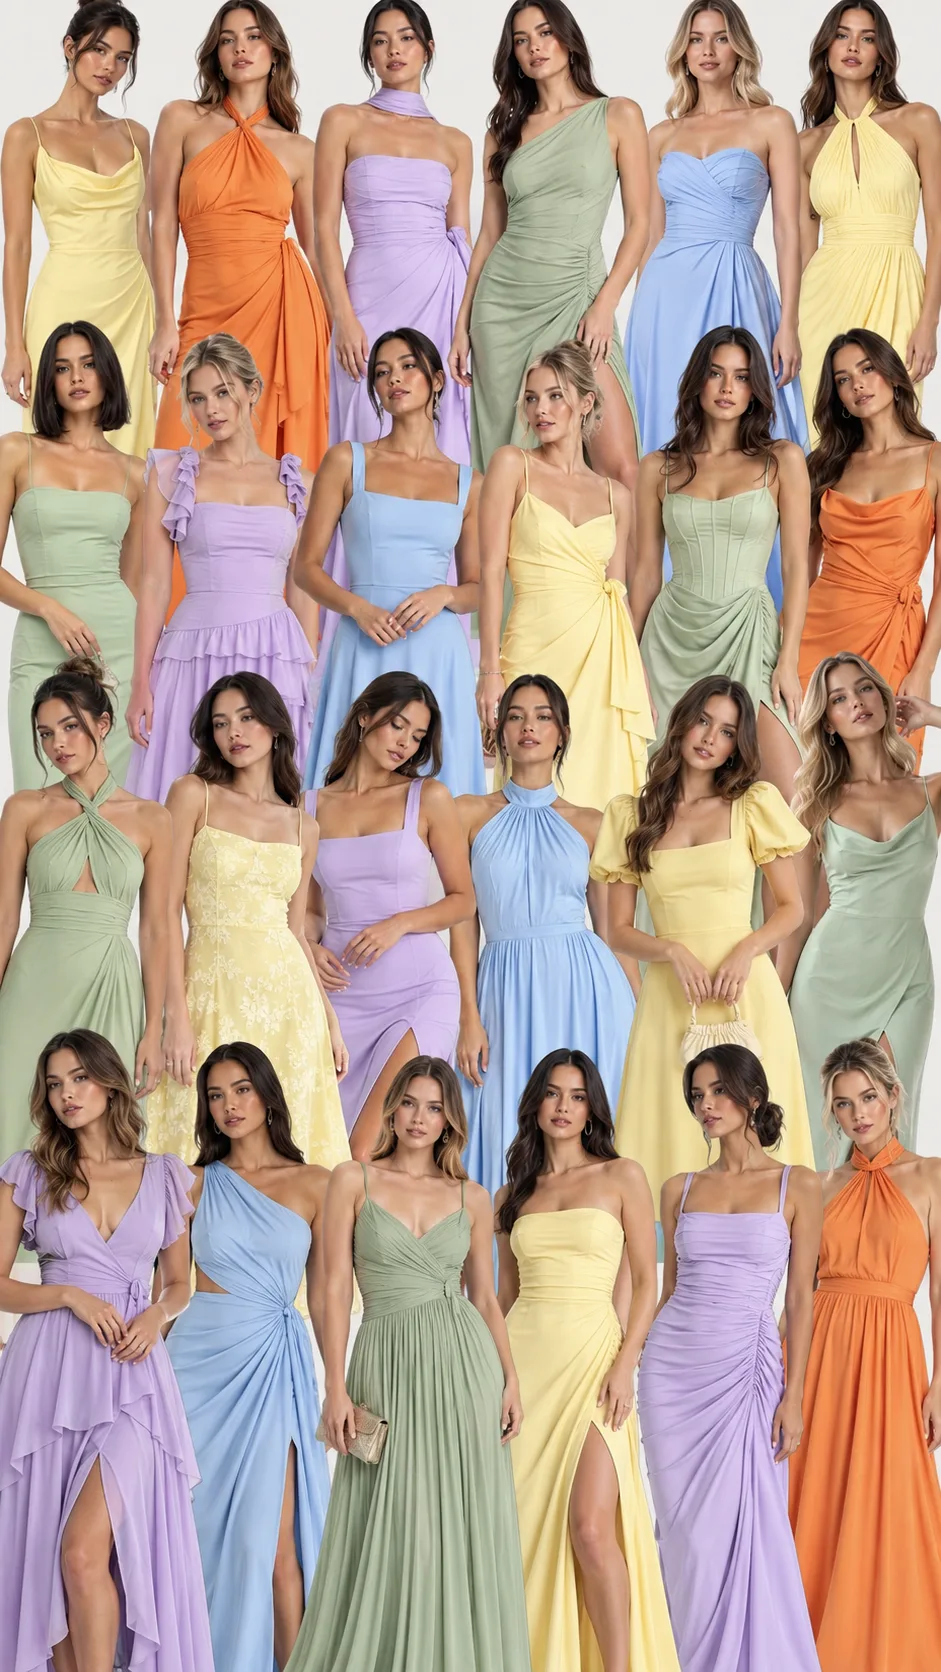
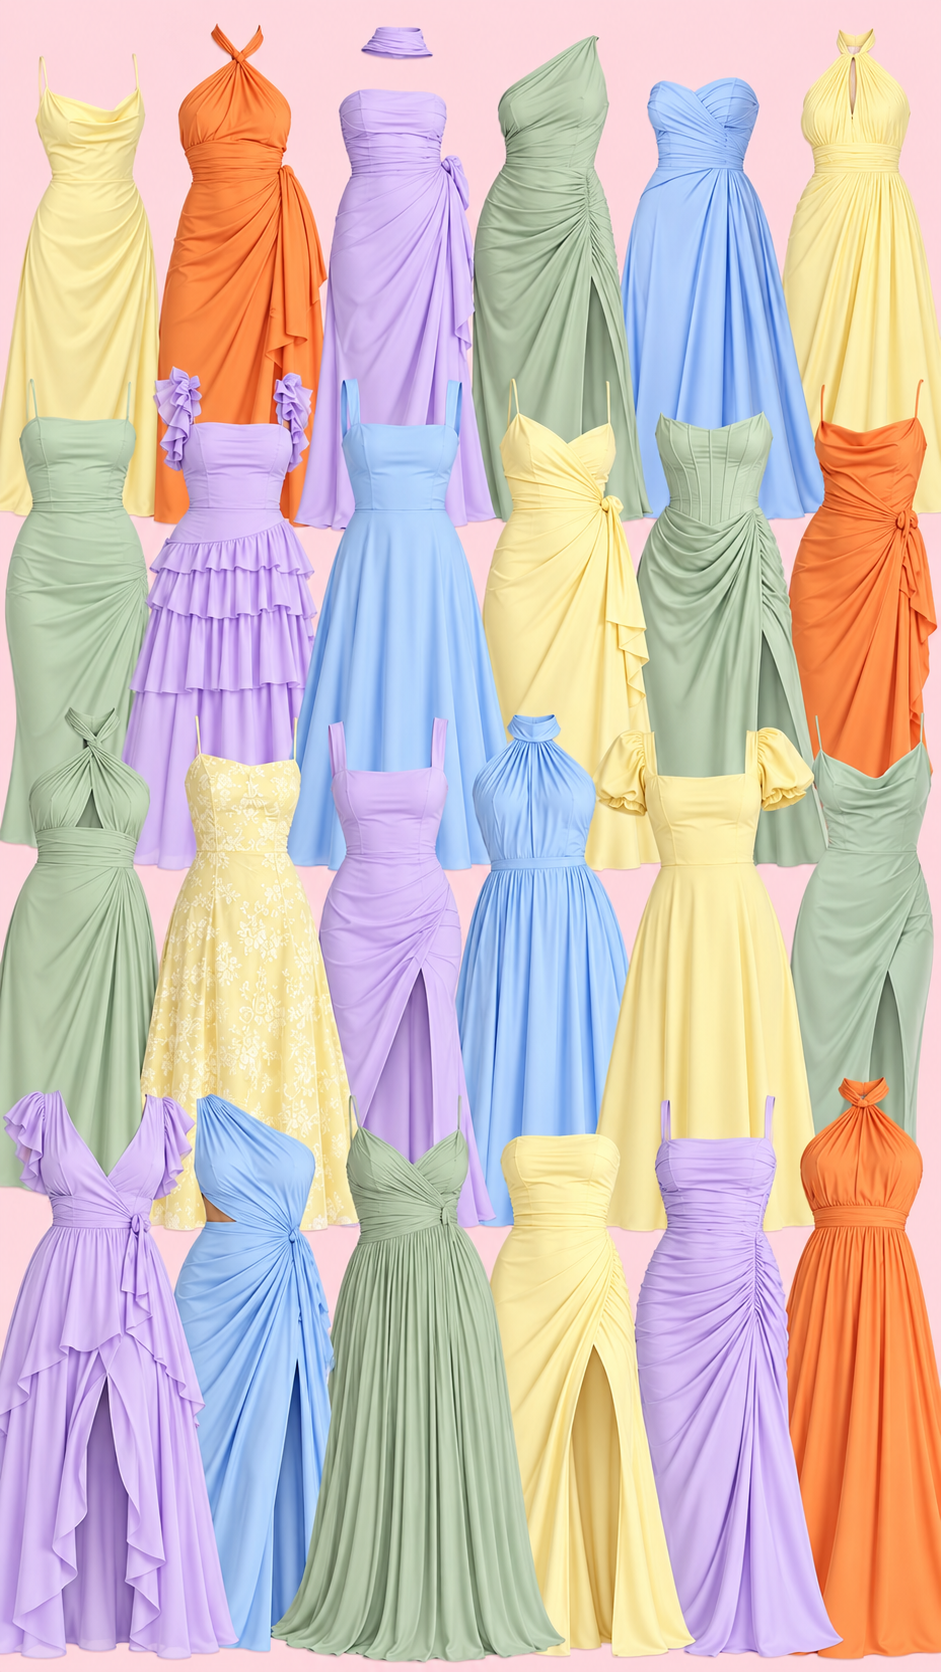
updated styles and images

diff --git a/src/scenes/MirrorScene/MirrorScene.jsx b/src/scenes/MirrorScene/MirrorScene.jsx
@@ -1,7 +1,7 @@
 import { useEffect, useRef } from "react";
+import { revealOnScroll } from "../../animations/scrollReveal";
 import { gsap } from "../../animations/gsap";
 import { usePrefersReducedMotion } from "../../hooks/usePrefersReducedMotion";
-import { useIsMobileViewport } from "../../hooks/useIsMobileViewport";
 import { SITE_CONFIG } from "../../config/siteConfig";
 import "./MirrorScene.scss";
 
@@ -11,7 +11,6 @@ export default function MirrorScene() {
   const sectionRef = useRef(null);
   const titleRef = useRef(null);
   const reducedMotion = usePrefersReducedMotion();
-  const isMobile = useIsMobileViewport();
 
   useEffect(() => {
     const ctx = gsap.context(() => {
@@ -20,34 +19,11 @@ export default function MirrorScene() {
         return;
       }
 
-      gsap.fromTo(
-        titleRef.current,
-        { opacity: 0, y: 30 },
-        { opacity: 1, y: 0, ease: "power2.out", duration: 1.2, delay: 0.3 }
-      );
-
-      gsap.fromTo(
-        titleRef.current,
-        { opacity: 1, y: 0 },
-        {
-          opacity: 0,
-          y: -40,
-          ease: "none",
-          scrollTrigger: {
-            trigger: sectionRef.current,
-            start: "top top",
-            // Mobile-only: fade out over a short, viewport-relative distance so the caption
-            // clears the frame before the camera dollies into the mirror. Desktop keeps the
-            // original section-relative fade.
-            end: isMobile ? () => `+=${Math.round(window.innerHeight * 0.35)}` : "40% top",
-            scrub: 1
-          }
-        }
-      );
+      revealOnScroll(titleRef.current);
     }, sectionRef);
 
     return () => ctx.revert();
-  }, [reducedMotion, isMobile]);
+  }, [reducedMotion]);
 
   return (
     <section className="mirror-scene" ref={sectionRef} aria-label="Approaching the mirror">

diff --git a/src/config/siteConfig.js b/src/config/siteConfig.js
@@ -36,15 +36,16 @@ export const SITE_CONFIG = {
     {
       key: "wishes",
       title: "18 Wishes",
+      subtitle: "Strictly hand-written",
       names: [
         "Ariana Mattina de Leon",
-        "Annika Isaga",
+        "Krisha Ann Sanga",
         "Juliana Palmes",
         "Faith Cerenado",
         "Armeya Medel",
-        "Princess Lamban",
+        "Annika Isaga",
         "Jessica Enriquez",
-        "Jezellene Austria",
+        "Jez Austria",
         "Marichu de Leon",
         "Aerith Madison Jandoc",
         "Victoria Angela Robes",
@@ -128,6 +129,31 @@ export const SITE_CONFIG = {
         "Norman Pamittan",
         "Christian Francisco",
         "Angelo Pablo"
+      ]
+    },
+    {
+      key: "shots-women",
+      title: "18 Shots",
+      subtitle: "Women",
+      names: [
+        "Chloe Angeles",
+        "Princess Lamban",
+        "Bianca Kierulf",
+        "Trixie Valenzuela",
+        "Euan Lo",
+        "Ana Rahayu",
+        "Jillian Nicia Lim",
+        "Sofia Giordana",
+        "Bettina Mari Cayanan",
+        "Ashley Delos Santos",
+        "Jahnella Gregorio",
+        "Alex Lagmay",
+        "Gicelle Paluyo",
+        "Alexine Lau",
+        "Sophia Cabahug",
+        "Maui Garcia",
+        "Precious Yuna Lomeda",
+        "Martina Tablazon"
       ]
     },
     {

diff --git a/src/scenes/RsvpScene/RsvpScene.jsx b/src/scenes/RsvpScene/RsvpScene.jsx
@@ -1,4 +1,5 @@
 import { useEffect, useRef } from "react";
+import { revealOnScroll } from "../../animations/scrollReveal";
 import { gsap } from "../../animations/gsap";
 import { usePrefersReducedMotion } from "../../hooks/usePrefersReducedMotion";
 import { SITE_CONFIG } from "../../config/siteConfig";
@@ -13,20 +14,11 @@ export default function RsvpScene() {
   useEffect(() => {
     const ctx = gsap.context(() => {
       if (reducedMotion) {
-        gsap.set(dateRef.current, { opacity: 1, scale: 1 });
+        gsap.set(dateRef.current, { opacity: 1, y: 0 });
         return;
       }
 
-      const tl = gsap.timeline({
-        scrollTrigger: { trigger: dateRef.current, start: "top 80%", end: "top -20%", scrub: 1 }
-      });
-      tl.fromTo(
-        dateRef.current,
-        { opacity: 0, scale: 0.8 },
-        { opacity: 1, scale: 1, ease: "back.out(1.3)", duration: 0.3 }
-      )
-        .to(dateRef.current, { opacity: 1, scale: 1, duration: 0.3 })
-        .to(dateRef.current, { opacity: 0, ease: "power1.in", duration: 0.4 });
+      revealOnScroll(dateRef.current);
     }, sectionRef);
 
     return () => ctx.revert();

diff --git a/src/animations/scrollReveal.js b/src/animations/scrollReveal.js
@@ -1,30 +1,15 @@
 import { gsap } from "./gsap.js";
 
-export function revealOnScroll(el, { x = 0, y = 30, fadeOut = true } = {}) {
+export function revealOnScroll(el, { y = 30 } = {}) {
   if (!el) return;
 
-  const outY = -Math.max(20, Math.abs(y) * 0.6);
-
-  if (!fadeOut) {
-    gsap.fromTo(
-      el,
-      { opacity: 0, x, y },
-      {
-        opacity: 1,
-        x: 0,
-        y: 0,
-        ease: "power2.out",
-        scrollTrigger: { trigger: el, start: "top 82%", end: "top 50%", scrub: 1 }
-      }
-    );
-    return;
-  }
-
-  const tl = gsap.timeline({
-    scrollTrigger: { trigger: el, start: "top 82%", end: "top -10%", scrub: 1 }
-  });
-
-  tl.fromTo(el, { opacity: 0, x, y }, { opacity: 1, x: 0, y: 0, ease: "power2.out", duration: 0.35 })
-    .to(el, { opacity: 1, duration: 0.3 })
-    .to(el, { opacity: 0, y: outY, ease: "power1.in", duration: 0.35 });
+  return gsap.fromTo(
+    el,
+    { y },
+    {
+      y: 0,
+      ease: "power2.out",
+      scrollTrigger: { trigger: el, start: "top 100%", end: "top 65%", scrub: 1 }
+    }
+  );
 }

diff --git a/src/scenes/OutroScene/OutroScene.jsx b/src/scenes/OutroScene/OutroScene.jsx
@@ -1,4 +1,5 @@
 import { useEffect, useRef } from "react";
+import { revealOnScroll } from "../../animations/scrollReveal";
 import { gsap } from "../../animations/gsap";
 import { usePrefersReducedMotion } from "../../hooks/usePrefersReducedMotion";
 import { SITE_CONFIG } from "../../config/siteConfig";
@@ -16,16 +17,7 @@ export default function OutroScene() {
         return;
       }
 
-      gsap.fromTo(
-        messageRef.current,
-        { opacity: 0, y: 30 },
-        {
-          opacity: 1,
-          y: 0,
-          ease: "power2.out",
-          scrollTrigger: { trigger: messageRef.current, start: "top 85%", end: "top 55%", scrub: 1 }
-        }
-      );
+      revealOnScroll(messageRef.current);
     }, sectionRef);
 
     return () => ctx.revert();

diff --git a/src/scenes/DressCodeScene/DressCodeScene.jsx b/src/scenes/DressCodeScene/DressCodeScene.jsx
@@ -20,8 +20,8 @@ export default function DressCodeScene() {
       }
 
       revealOnScroll(headerRef.current);
-      revealOnScroll(womenRef.current, { x: -60 });
-      revealOnScroll(menRef.current, { x: 60 });
+      revealOnScroll(womenRef.current);
+      revealOnScroll(menRef.current);
     }, sectionRef);
 
     return () => ctx.revert();

diff --git a/src/scenes/GardenScene/GardenScene.jsx b/src/scenes/GardenScene/GardenScene.jsx
@@ -19,9 +19,8 @@ export default function GardenScene() {
         return;
       }
 
-      paragraphs.forEach((el, index) => {
-        const isLast = index === paragraphs.length - 1;
-        revealOnScroll(el, { y: 30, fadeOut: !isLast });
+      paragraphs.forEach((el) => {
+        revealOnScroll(el);
       });
     }, sectionRef);
 

diff --git a/src/scenes/EntourageScene/EntourageScene.jsx b/src/scenes/EntourageScene/EntourageScene.jsx
@@ -21,8 +21,8 @@ export default function EntourageScene() {
       }
 
       revealOnScroll(headerRef.current);
-      groups.forEach((el, index) => {
-        revealOnScroll(el, { x: index % 2 === 0 ? -50 : 50, fadeOut: false });
+      groups.forEach((el) => {
+        revealOnScroll(el);
       });
     }, sectionRef);
 

diff --git a/src/three/MirrorGlass.jsx b/src/three/MirrorGlass.jsx
@@ -56,6 +56,7 @@ export default function MirrorGlass({ progressRef, computeState, diameter = 2.9 
           uniforms={uniforms}
           vertexShader={MIRROR_VERTEX_SHADER}
           fragmentShader={MIRROR_FRAGMENT_SHADER}
+          toneMapped={false}
           transparent
           side={THREE.DoubleSide}
         />

diff --git a/src/three/MirrorMesh.jsx b/src/three/MirrorMesh.jsx
@@ -36,6 +36,7 @@ export default function MirrorMesh({ position = [0, 0, 0], rotation = [0, 0, 0],
         uniforms={uniforms}
         vertexShader={MIRROR_VERTEX_SHADER}
         fragmentShader={MIRROR_FRAGMENT_SHADER}
+        toneMapped={false}
         transparent
         side={THREE.DoubleSide}
       />

diff --git a/src/styles/variables.scss b/src/styles/variables.scss
@@ -8,7 +8,7 @@ $color-secondary-light: #e3bfd8;
 $color-secondary-dark: #a3729a;
 $color-dark-light: #6b5264;
 $color-dark-deep: #241a24;
-
+$color-white: #fff;
 $color-blush: #f3e4e8;
 $color-cream: #f8ece7;
 $color-gold: #cdb08a;

diff --git a/src/three/shaders.js b/src/three/shaders.js
@@ -27,5 +27,6 @@ export const MIRROR_FRAGMENT_SHADER = `
     }
     vec4 tex = texture2D(uMap, uv);
     gl_FragColor = vec4(tex.rgb, tex.a * uOpacity);
+    #include <colorspace_fragment>
   }
 `;
